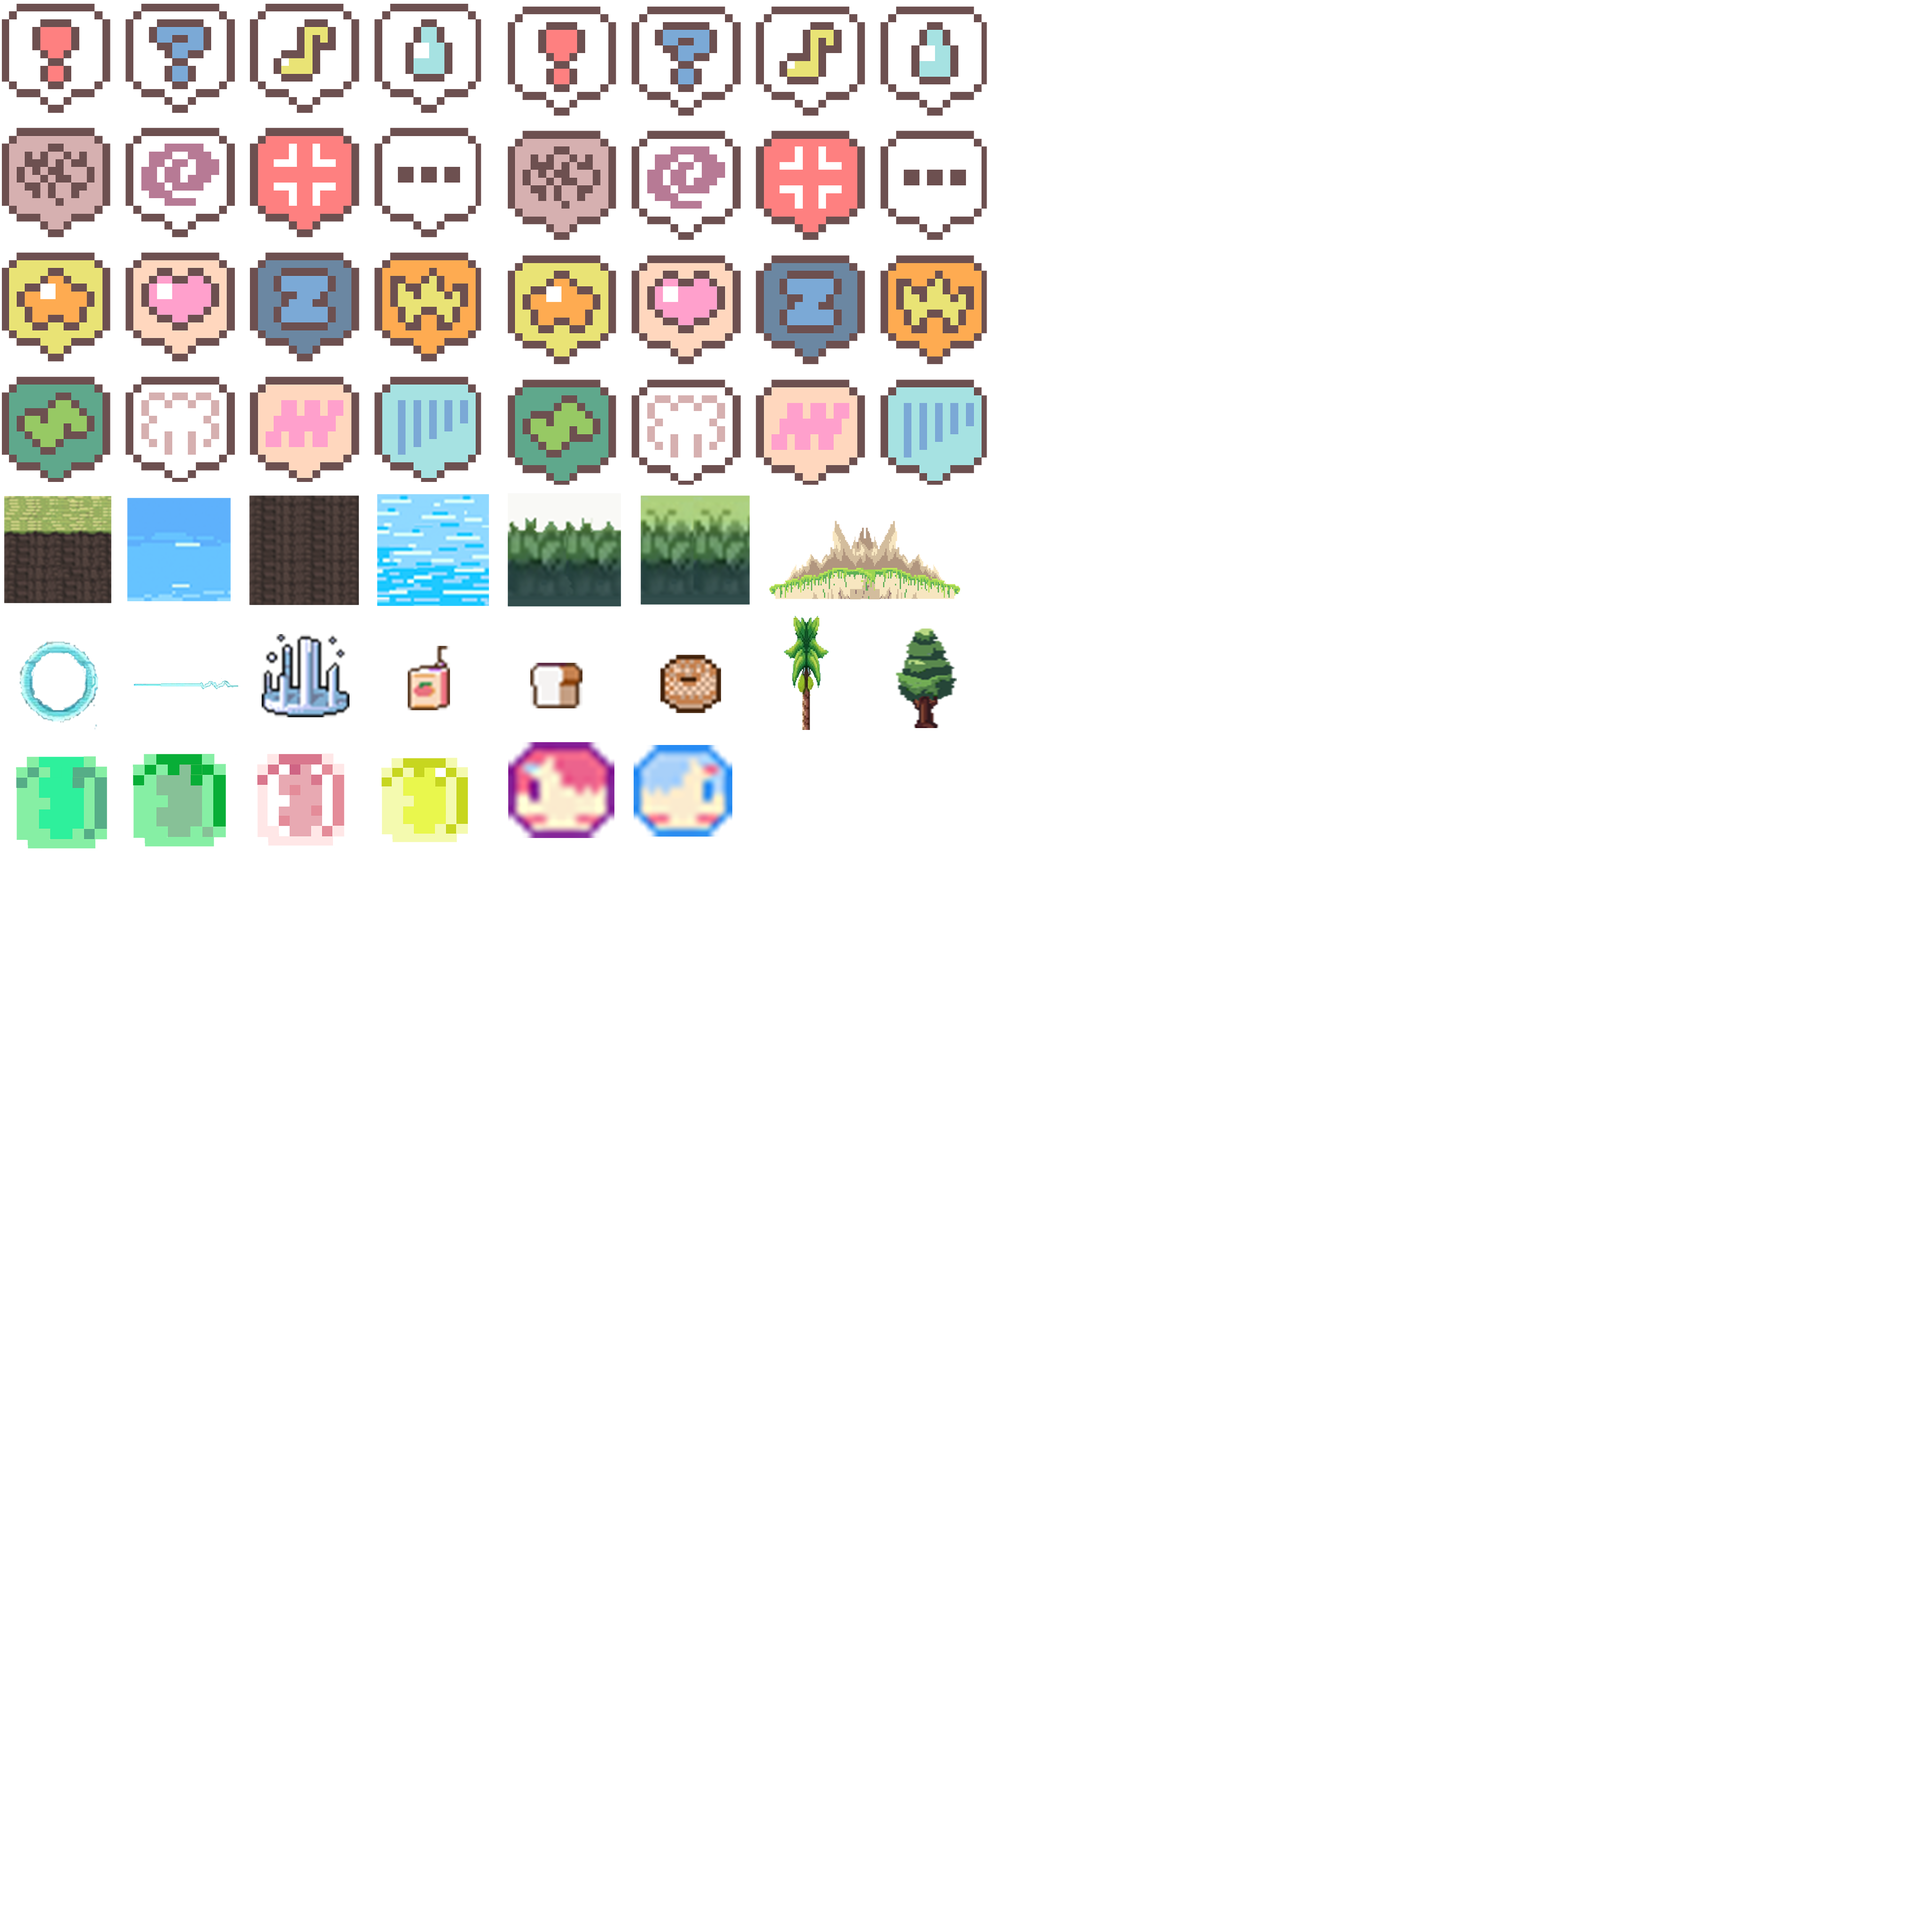
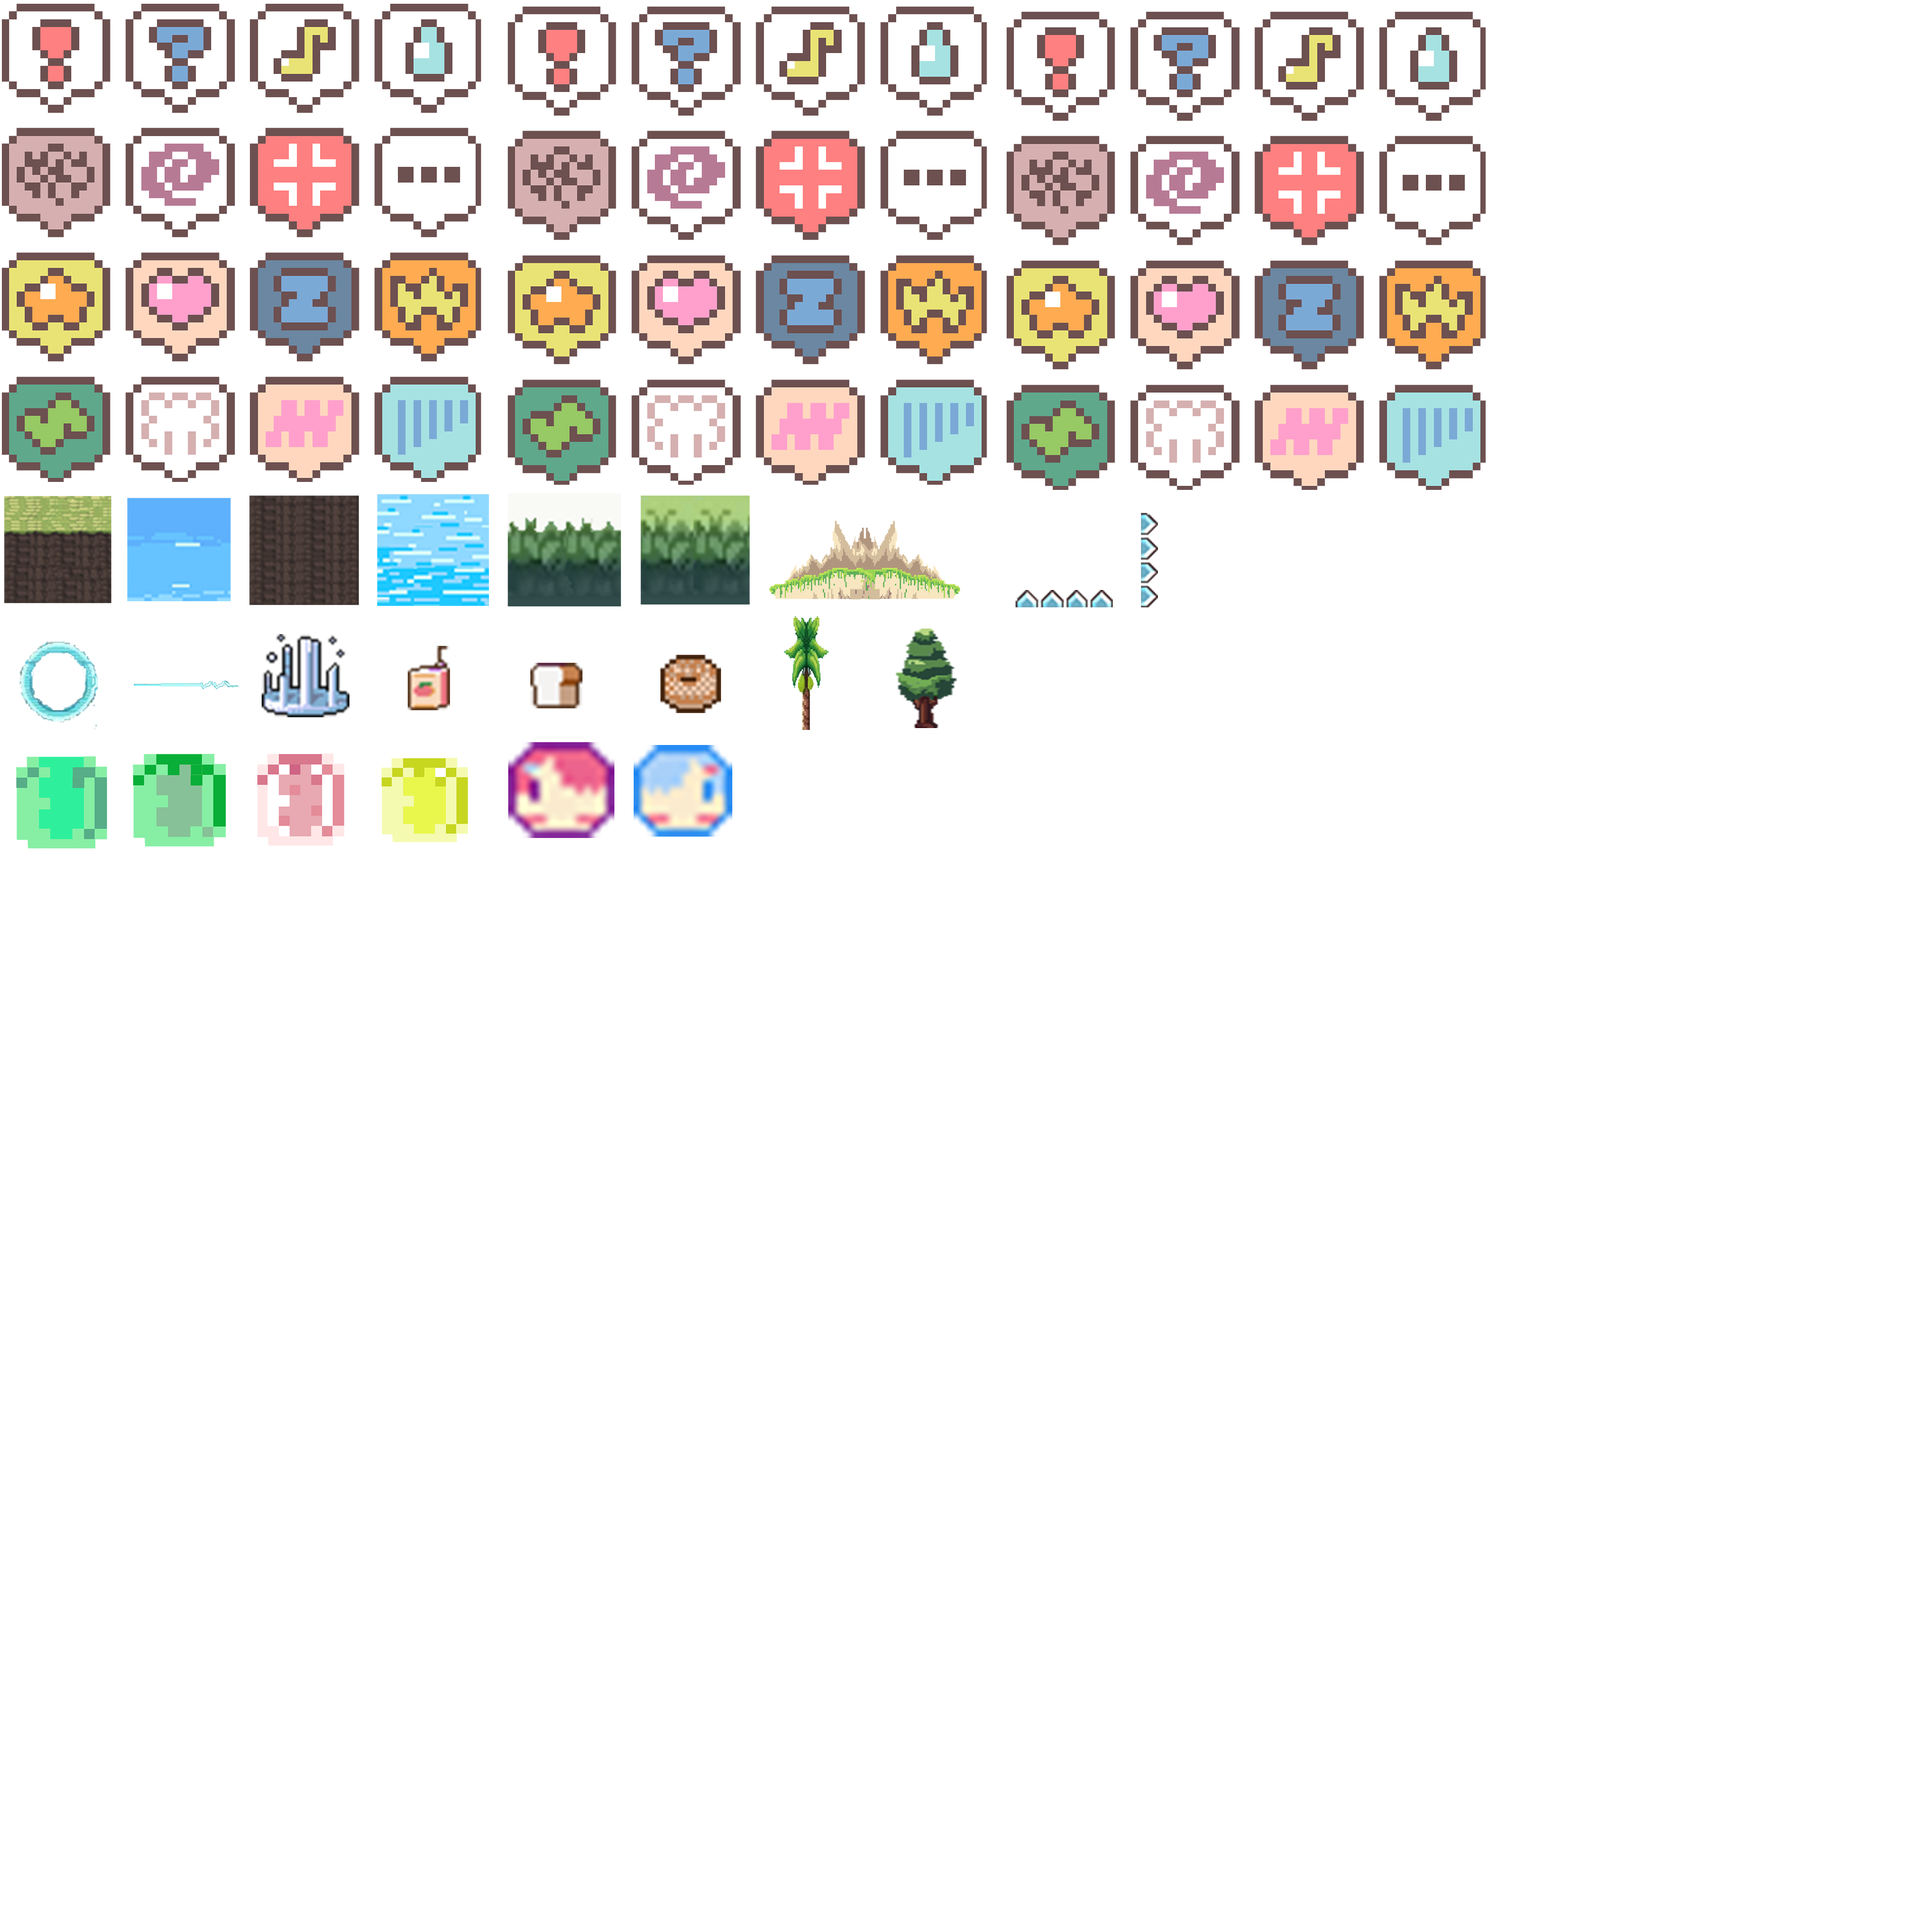
add trap

Changed region(s): [[0.5, 0.0, 0.7812, 0.3125], [0.5312, 0.2812, 0.5625, 0.3125]]

diff --git a/Project/public_html/src/Aftermath/Level/LevelScene.js b/Project/public_html/src/Aftermath/Level/LevelScene.js
@@ -15,8 +15,8 @@ function LevelScene(aHero) {
     this.kUIButton = "assets/UI/SimpleButton.png";
     this.kCue = "assets/AudioTest/BlueLevel_cue.wav";
     this.kMinionSprite = "assets/minion_sprite.png";
-    // this.kTrap = "assets/Trap.png";
-    this.kTrap = "assets/item/gadgets.png";
+    // this.kGadgets = "assets/Trap.png";
+    this.kGadgets = "assets/item/gadgets.png";
     this.kSave = "assets/save.png";
     this.kPlatformTexture = "assets/BlockUnit/snow-platform.png";
     // this.kCharacters = "assets/Character/3.png";
@@ -58,6 +58,7 @@ function LevelScene(aHero) {
         this.mHero = null;
     }
     this.mTrap = null;
+    this.mTrapSet = [];
     this.mSavePoint = null;
 
     this.reset = false;
@@ -82,7 +83,7 @@ LevelScene.prototype.loadScene = function () {
     gEngine.AudioClips.loadAudio(this.kBgm);
     gEngine.AudioClips.loadAudio(this.kShoot);
     gEngine.Textures.loadTexture(this.kMinionSprite);
-    gEngine.Textures.loadTexture(this.kTrap);
+    gEngine.Textures.loadTexture(this.kGadgets);
     gEngine.Textures.loadTexture(this.kSave);
     gEngine.Textures.loadTexture(this.kPlatformTexture);
     gEngine.Textures.loadTexture(this.kCharacters);
@@ -101,7 +102,7 @@ LevelScene.prototype.unloadScene = function () {
     gEngine.AudioClips.unloadAudio(this.kShoot);
 
     gEngine.Textures.unloadTexture(this.kMinionSprite);
-    gEngine.Textures.unloadTexture(this.kTrap);
+    gEngine.Textures.unloadTexture(this.kGadgets);
     gEngine.Textures.unloadTexture(this.kSave);
     gEngine.Textures.unloadTexture(this.kPlatformTexture);
     gEngine.Textures.unloadTexture(this.kCharacters);
@@ -149,7 +150,7 @@ LevelScene.prototype.initialize = function () {
     }
 
 
-    this.mTrap = new Trap(this.kTrap);
+    this.mTrap = new Trap(this.kGadgets);
     this.mSavePoint = new SavePoint(this.kSave);
 
     var i, j, rx, ry, obj, dy, dx;

diff --git a/Project/public_html/src/Aftermath/Objects/TrapWall.js b/Project/public_html/src/Aftermath/Objects/TrapWall.js
@@ -9,15 +9,21 @@
 
 "use strict";  // Operate in Strict mode such that variables must be declared before used!
 
-function TrapWall(spriteTexture) {
+function TrapWall(spriteTexture, position) {
 
     //TODO get another texture
     this.mTrapWall = new SpriteRenderable(spriteTexture);
     this.mTrapWall.setColor([1, 1, 1, 0]);
-    this.mTrapWall.getXform().setPosition(80, 20);
-    this.mTrapWall.getXform().setSize(7.5, 7.5);
+    if (position !== undefined) {
+        this.mTrapWall.getXform().setPosition(position[0], position[1]);
+
+    } else {
+
+        this.mTrapWall.getXform().setPosition(80, 20);
+    }
+    this.mTrapWall.getXform().setSize(3,8);
     // this.mTrapWall.setElementPixelPositions(130, 310, 0, 180);
-    this.mTrapWall.setElementPixelPositions(0, 64, 0, 64);
+    this.mTrapWall.setElementPixelPositions(2426, 2465, 3004, 2845);
     // this.mTrapWall.setElementPixelPositions(0, 120, 0, 180);
 
 

diff --git a/Project/public_html/src/Aftermath/Objects/Trap.js b/Project/public_html/src/Aftermath/Objects/Trap.js
@@ -9,15 +9,21 @@
 
 "use strict";  // Operate in Strict mode such that variables must be declared before used!
 
-function Trap(spriteTexture) {
+function Trap(spriteTexture, position) {
 
     //TODO get another texture
     this.mTrap = new SpriteRenderable(spriteTexture);
     this.mTrap.setColor([1, 1, 1, 0]);
-    this.mTrap.getXform().setPosition(80, 20);
-    this.mTrap.getXform().setSize(7.5, 7.5);
+    if (position !== undefined) {
+        this.mTrap.getXform().setPosition(position[0], position[1]);
+
+    } else {
+
+        this.mTrap.getXform().setPosition(80, 20);
+    }
+    this.mTrap.getXform().setSize(8,3);
     // this.mTrap.setElementPixelPositions(130, 310, 0, 180);
-    this.mTrap.setElementPixelPositions(0, 256, 3840, 4096);
+    this.mTrap.setElementPixelPositions(2159, 2371, 2800, 2845);
     // this.mTrap.setElementPixelPositions(0, 120, 0, 180);
 
 

diff --git a/Project/public_html/src/Aftermath/Level/Level_2_1.js b/Project/public_html/src/Aftermath/Level/Level_2_1.js
@@ -122,13 +122,25 @@ Level_2_1.prototype.initialize = function () {
 
     }
 
+    // this.mTrapSet.push(new Trap(this.kGadgets, vec2.fromValues(10, 10)));
+    this.mTrapSet.push(new TrapWall(this.kGadgets, vec2.fromValues(16, 10)));
+
 };
 Level_2_1.prototype.draw = function () {
     LevelScene.prototype.draw.call(this, this.mCamera);
 
+    for (let i = 0; i < this.mTrapSet.length; i++) {
+        this.mTrapSet[i].draw(this.mCamera);
+    }
 };
 
 Level_2_1.prototype.update = function () {
     LevelScene.prototype.update.call(this);
+    for (let i = 0; i < this.mTrapSet.length; i++) {
+        if (this.mTrapSet[i].getBBox().intersectsBound(this.mHero.getBBox())) {
+            this.goLose();
+        }
+
+    }
 
 };

diff --git a/Project/public_html/index.html b/Project/public_html/index.html
@@ -152,6 +152,7 @@
     <script type="text/javascript" src="src/Aftermath/HiddenLevel.js"></script>
     <script type="text/javascript" src="src/Aftermath/Objects/Hero.js"></script>
     <script type="text/javascript" src="src/Aftermath/Objects/Trap.js"></script>
+    <script type="text/javascript" src="src/Aftermath/Objects/TrapWall.js"></script>
     <script type="text/javascript" src="src/Aftermath/Objects/SavePoint.js"></script>
     <script type="text/javascript" src="src/Aftermath/Objects/Platform.js"></script>
     <script type="text/javascript" src="src/Aftermath/Objects/Boss.js"></script>

diff --git a/Project/public_html/src/Aftermath/Level/Level_2_2.js b/Project/public_html/src/Aftermath/Level/Level_2_2.js
@@ -111,6 +111,11 @@ Level_2_2.prototype.initialize = function () {
         rx += dx;
     }
 
+    ry = 5 + 3 * dy;
+    rx = 4 * dx;
+    obj = new Platform(this.kPlatformTexture, rx, ry);
+    this.mAllPlatforms.addToSet(obj);
+
 };
 
 Level_2_2.prototype.draw = function () {
